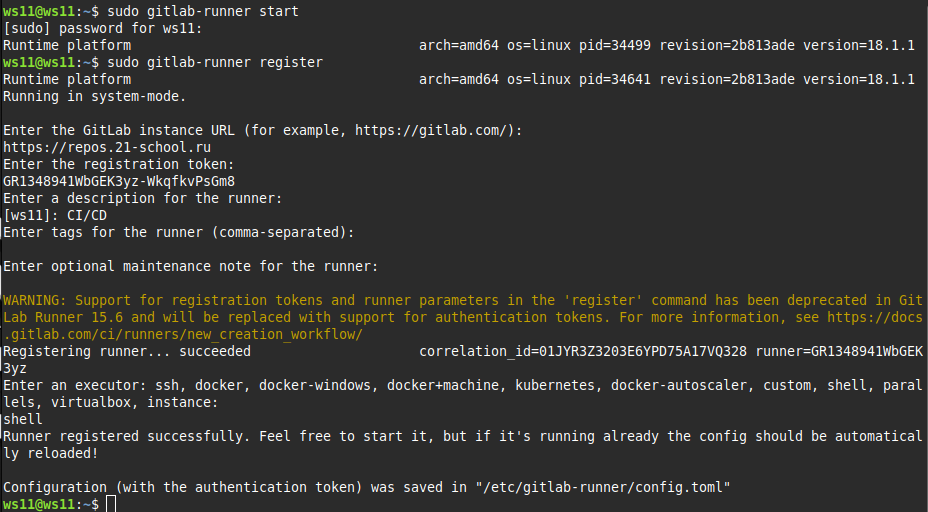
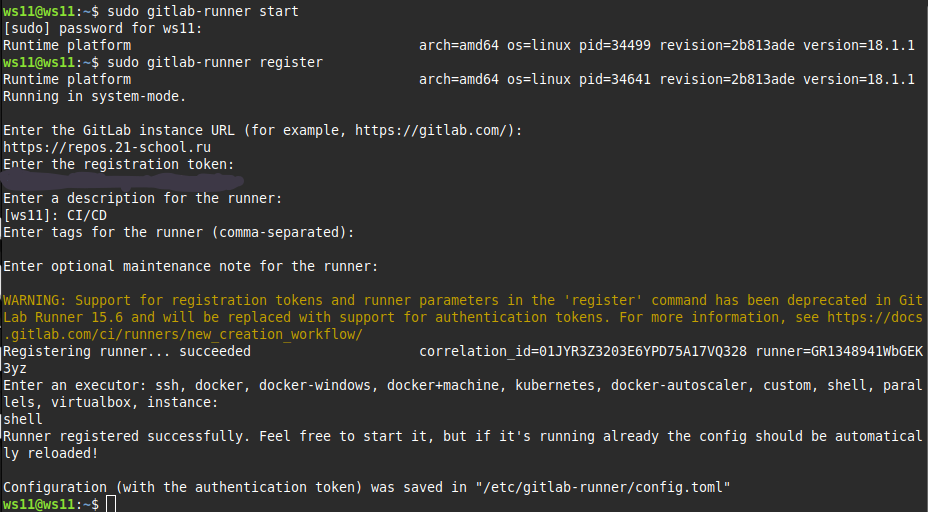
RELEASE

Changed region(s): [[0.0, 0.3125, 0.2812, 0.375]]

diff --git a/README.md b/README.md
@@ -14,17 +14,9 @@
 
 ## Chapter I
 
-В качестве результата работы ты должен сохранить два дампа образов виртуальных машин, описанных далее. \
-**P.S. Ни в коем случае не сохраняй дампы в гит!**
-
 ### Part 1. Настройка **gitlab-runner**
 
-`-` Раз ты решил заняться CI/CD, должно быть, ты очень-очень любишь тестировать. Я тоже это люблю. Так что приступим. Если тебе потребуется какая-либо информация, рекомендую искать ответы в официальной документации.
-
-**== Задание ==**
-
 ##### Подними виртуальную машину *Ubuntu Server 22.04 LTS*.
-*Будь готов, что в конце проекта нужно будет сохранить дамп образа виртуальной машины.*
 
 ##### Скачай и установи на виртуальную машину **gitlab-runner**.
 
@@ -33,32 +25,13 @@
 
 ### Part 2. Сборка
 
-
-`-` Предыдущее испытание было создано, чтобы повышать в людях уверенность в себе.
-Теперь я подкорректировала тесты, сделав их более сложными и менее льстивыми.
-
-
-**== Задание ==**
-
 Напиши этап для **CI** по сборке приложений из проекта *SimpleBashUtils*.
 
 В файле _.gitlab-ci.yml_ добавь этап запуска сборки через мейк файл из проекта _SimpleBashUtils_.
 
 Файлы, полученные после сборки (артефакты), сохрани в произвольную директорию со сроком хранения 30 дней.
 
-**== Если проект *SimpleBashUtils* не выполнен ==**
-
-Напиши этап для **CI** по сборке приложения из папки code-samples *DO*.
-
-В файле _.gitlab-ci.yml_ добавь этап запуска сборки через мейк файл из папки code-samples.
-
-Файлы, полученные после сборки (артефакты), сохрани в произвольную директорию со сроком хранения 30 дней.
-
 ### Part 3. Тест кодстайла
-
-`-` Поздравляю, ты выполнил абсолютно бессмысленную задачу. Шучу. Она была нужна для перехода ко всем последующим.
-
-**== Задание ==**
 
 #### Напиши этап для **CI**, который запускает скрипт кодстайла (*clang-format*).
 
@@ -68,15 +41,9 @@
 
 ### Part 4. Интеграционные тесты
 
-`-` Отлично, тест на кодстайл написан. [ТИШЕ] Говорю с тобой тет-а-тет. Не говори ничего коллегам. Между нами: ты справляешься очень хорошо. [ГРОМЧЕ] Переходим к написанию интеграционных тестов.
-
-**== Задание ==**
-
 #### Напиши этап для **CI**, который запустит интеграционные тесты.
 
 ##### Для проекта *SimpleBashUtils* можешь взять свои уже написанные интеграционные тесты.
-
-##### Для проекта из папки code-samples напиши интеграционные тесты самостоятельно. Тесты могут быть написаны на любом языке (c, bash, python и т.д.) и должны вызывать собранное приложение для проверки его работоспособности на разных случаях.
 
 ##### Запусти этот этап автоматически только при условии, если сборка и тест кодстайла прошли успешно.
 
@@ -86,10 +53,6 @@
 
 ### Part 5. Этап деплоя
 
-`-` Для завершения этого задания ты должен перенести исполняемые файлы на другую виртуальную машину, которая будет играть роль продакшна. Удачи.
-
-**== Задание ==**
-
 ##### Подними вторую виртуальную машину *Ubuntu Server 22.04 LTS*.
 
 #### Напиши этап для **CD**, который «разворачивает» проект на другой виртуальной машине.
@@ -97,9 +60,6 @@
 ##### Запусти этот этап вручную при условии, что все предыдущие этапы прошли успешно.
 
 ##### Напиши bash-скрипт, который при помощи **ssh** и **scp** копирует файлы, полученные после сборки (артефакты), в директорию */usr/local/bin* второй виртуальной машины.
-*Тут тебе могут помочь знания, полученные в проекте DO2_LinuxNetwork.*
-
-- Будь готов объяснить по скрипту, как происходит перенос.
 
 ##### В файле _.gitlab-ci.yml_ добавь этап запуска написанного скрипта.
 
@@ -107,15 +67,8 @@
 
 В результате ты должен получить готовое к работе приложения из проекта *SimpleBashUtils* (*cat* и *grep*) или приложение из папки code-samples (*DO*) на второй виртуальной машине (в зависимости от того, что ты выполнял).
 
-##### Сохрани дампы образов виртуальных машин.
-**P.S. Ни в коем случае не сохраняй дампы в гит!**
-- Не забудь запустить пайплайн с последним коммитом в репозитории.
 
 ### Part 6. Дополнительно. Уведомления
-
-`-` Здесь написано, что твое следующее задание выполняется специально для нобелевских лауреатов. Здесь не сказано, за что они получили премию, но точно не за умение работать с **gitlab-runner**.
-
-**== Задание ==**
 
 #### Настрой уведомления об успешном/неуспешном выполнении пайплайна через бота с именем «[твой nickname] DO6 CI/CD» в *Telegram*.
 
